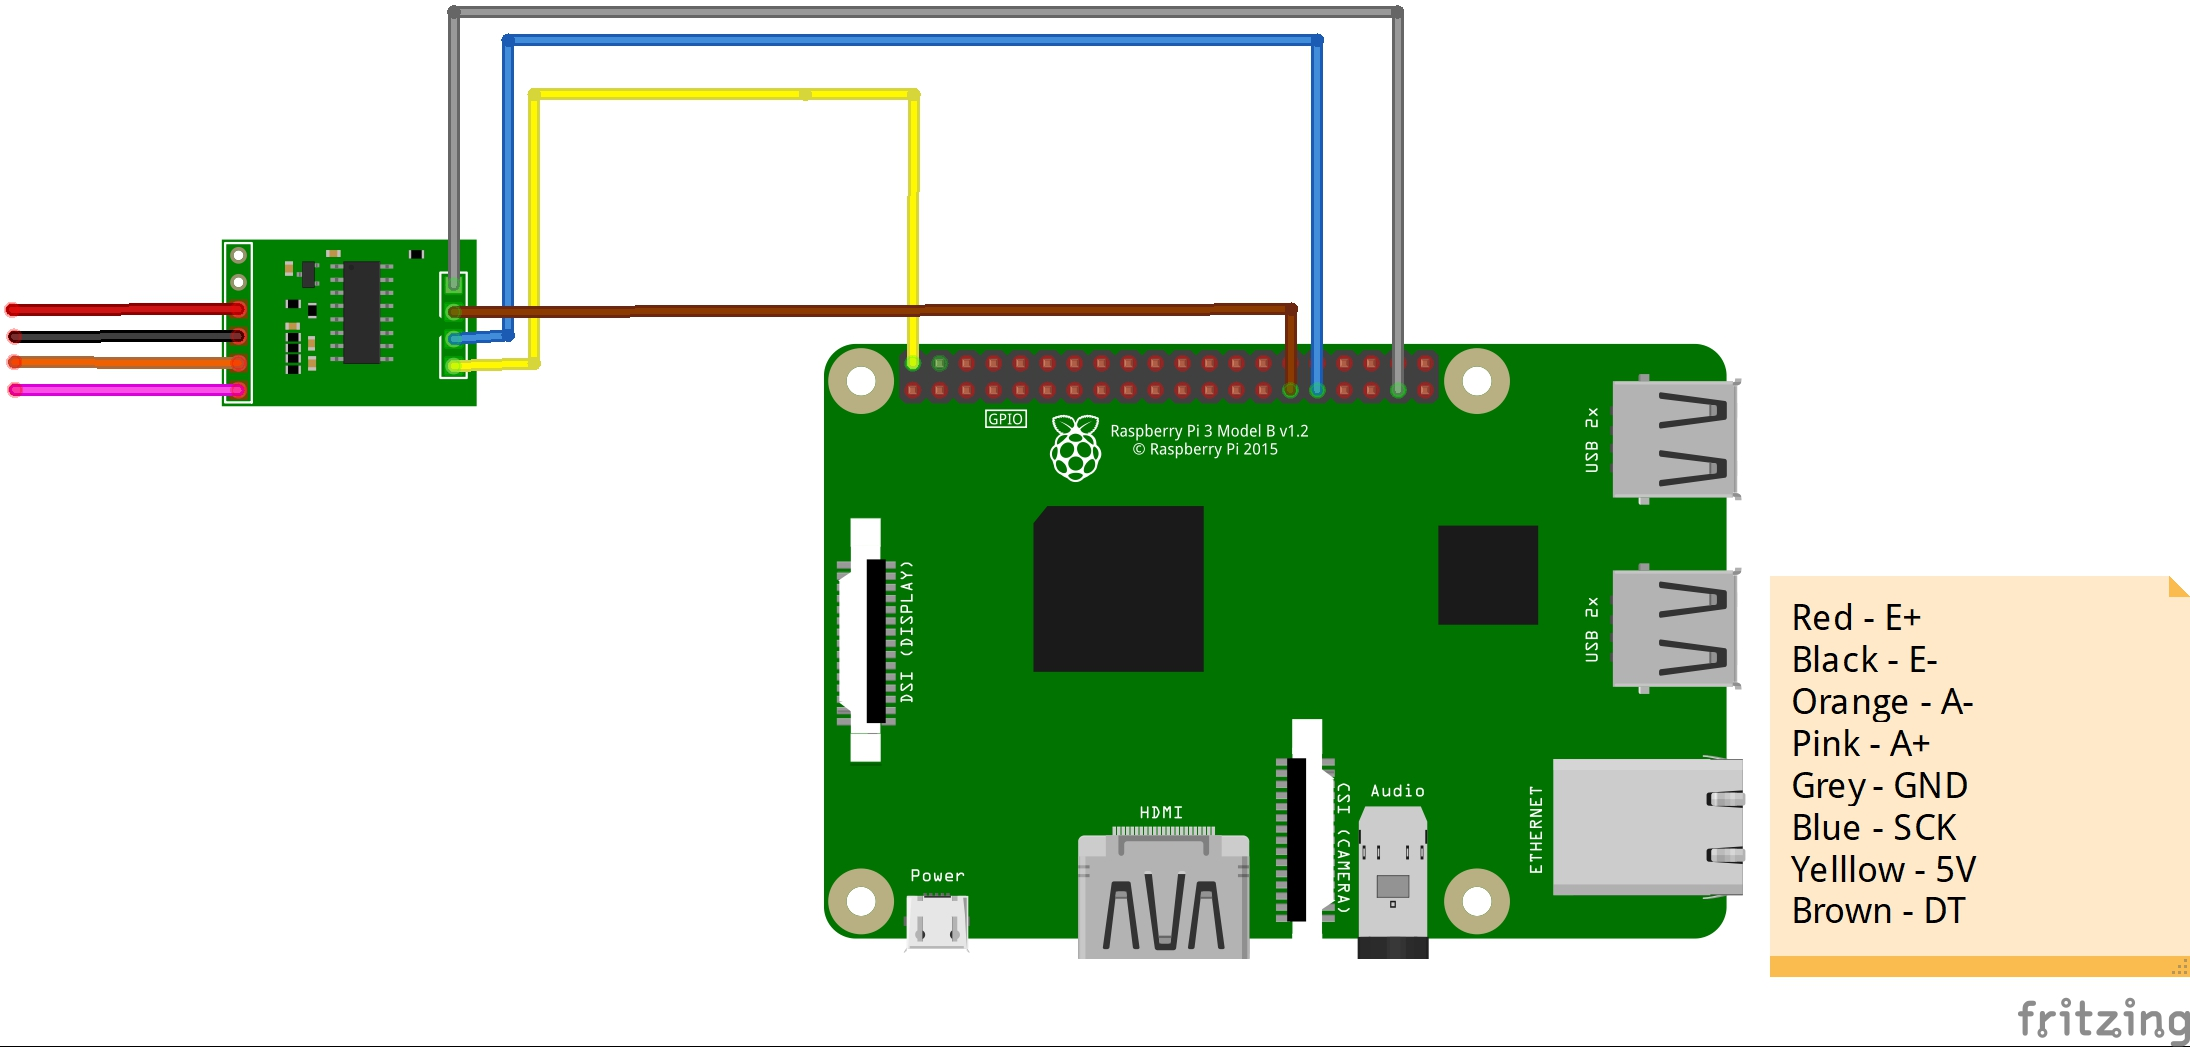
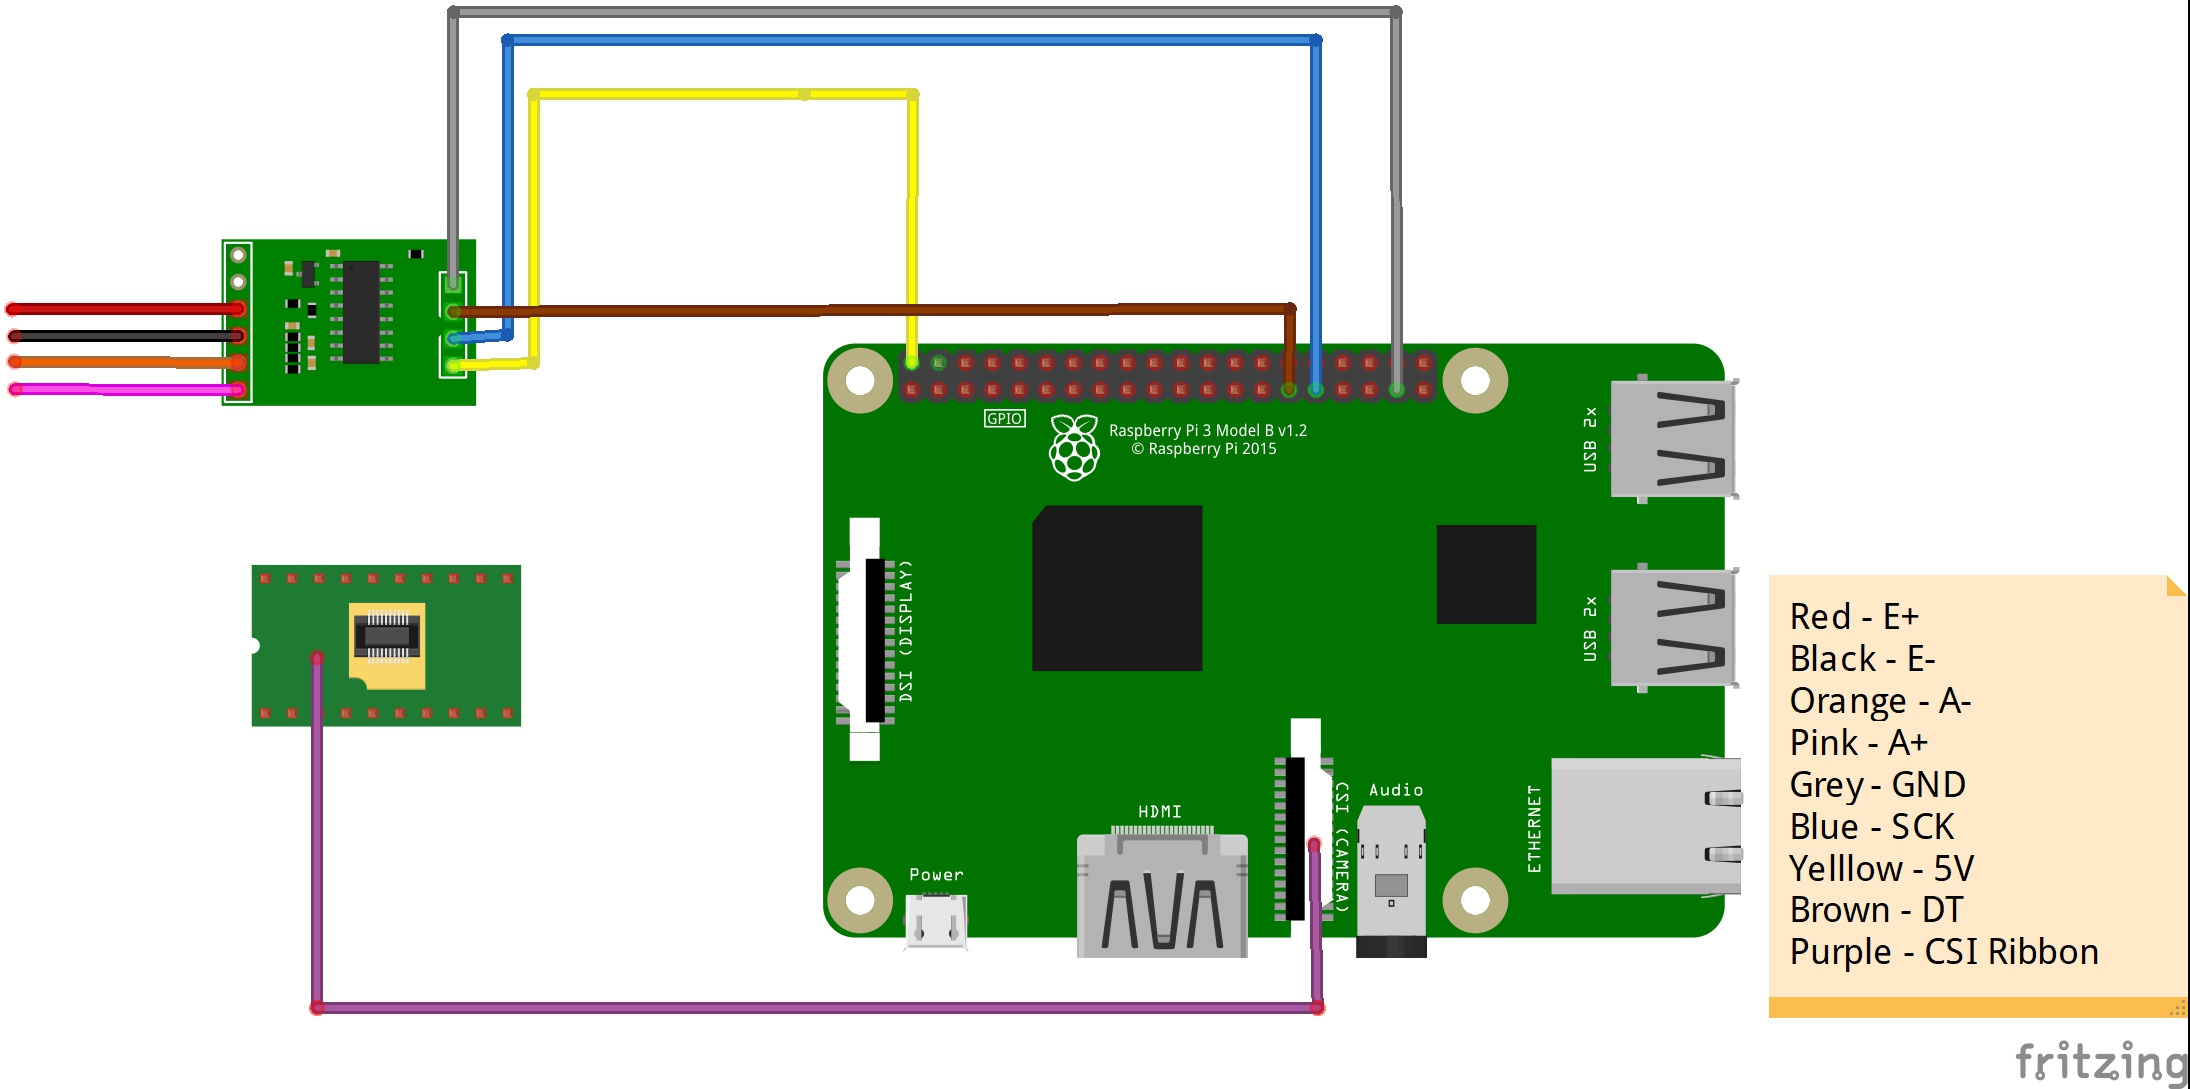
Updated README

diff --git a/README.md b/README.md
@@ -22,9 +22,12 @@ This project uses Raspberry Pi to continuously monitor the weight and contents i
 
 ### Working of code:
 
+This project helps you to setup a camera and weighing scale and integrate it to your Raspberry Pi. It also enables you to send this data over Wi-fi.
+
 The stream.py file just starts a server at the specified port on the RPi. The main.py file has both the code integrated, for weight measurement and stream of live footage to the server. It also prints an alert message if the weight measured exceeds a certain amount of threshold.
 
-Note: Uncomment the commented to connect to a remote desktop to get alerts through Wi-fi.
+>[!NOTE]  
+>Uncomment the commented to connect to a remote desktop to get alerts through Wi-fi.
 
 #### The post_proc_clinet.py:
 This code works on the Haarcascades method of OpenCV. This is one of the most common methods used in real-world applications to identify and classify different types of objects in the given frame to the program.
@@ -45,7 +48,8 @@ Picture of load cell:
 
 ![image](load_cell.jpg)
 
-Note: The connection of camera is not shown in the pictue.
+>[!NOTE] 
+>The connection of camera shown in the pictue is just for representation purpose. The actual connection is done using a CSI ribbon.
 
 ### Installation:
 
@@ -64,6 +68,11 @@ Install required python packages in RPi
 pip install opencv-python
 pip install pyshine==0.0.9
 ```
+Before running the Python script, to access the camera we need to enable it. To do this head to 
+
+Main Menu > Raspberry Pi Configuration > Interfaces and enable the camera. 
+
+Reboot you Pi so that the changes you made get reflected.
 
 After installing all the required libraries on RPi, run the following command:
 ```bash
@@ -95,7 +104,8 @@ A sample for detecting human faces in the video footage is also given in the rep
 python3 post_proc_client.py
 ```
 
-Note: This file uses the haar cascades method to identify human faces. The xml file for opencv is obtained from an open-source [repository](https://github.com/anaustinbeing/haar-cascade-files/tree/master).
+>[!NOTE]  
+>This file uses the haar cascades method to identify human faces. The xml file for opencv is obtained from an open-source [repository](https://github.com/anaustinbeing/haar-cascade-files/tree/master).
 
 ### References:
 
